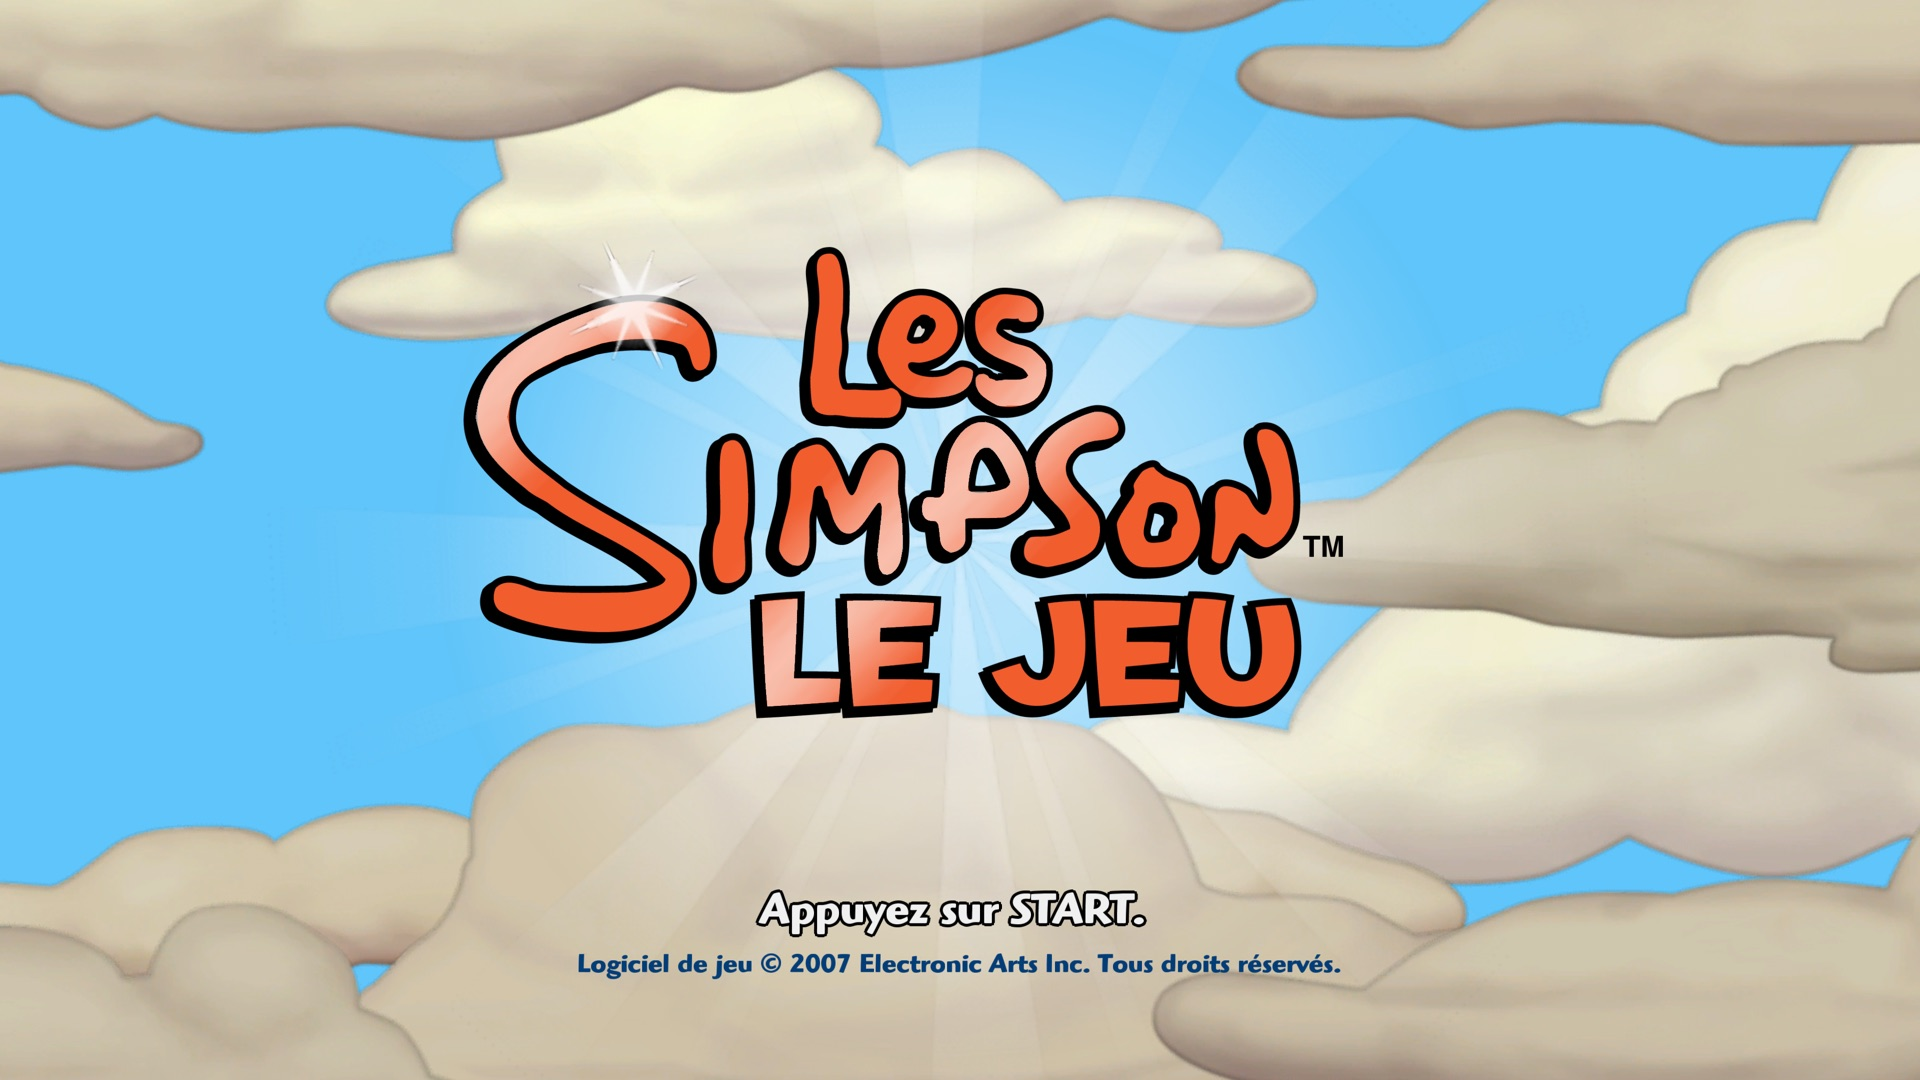
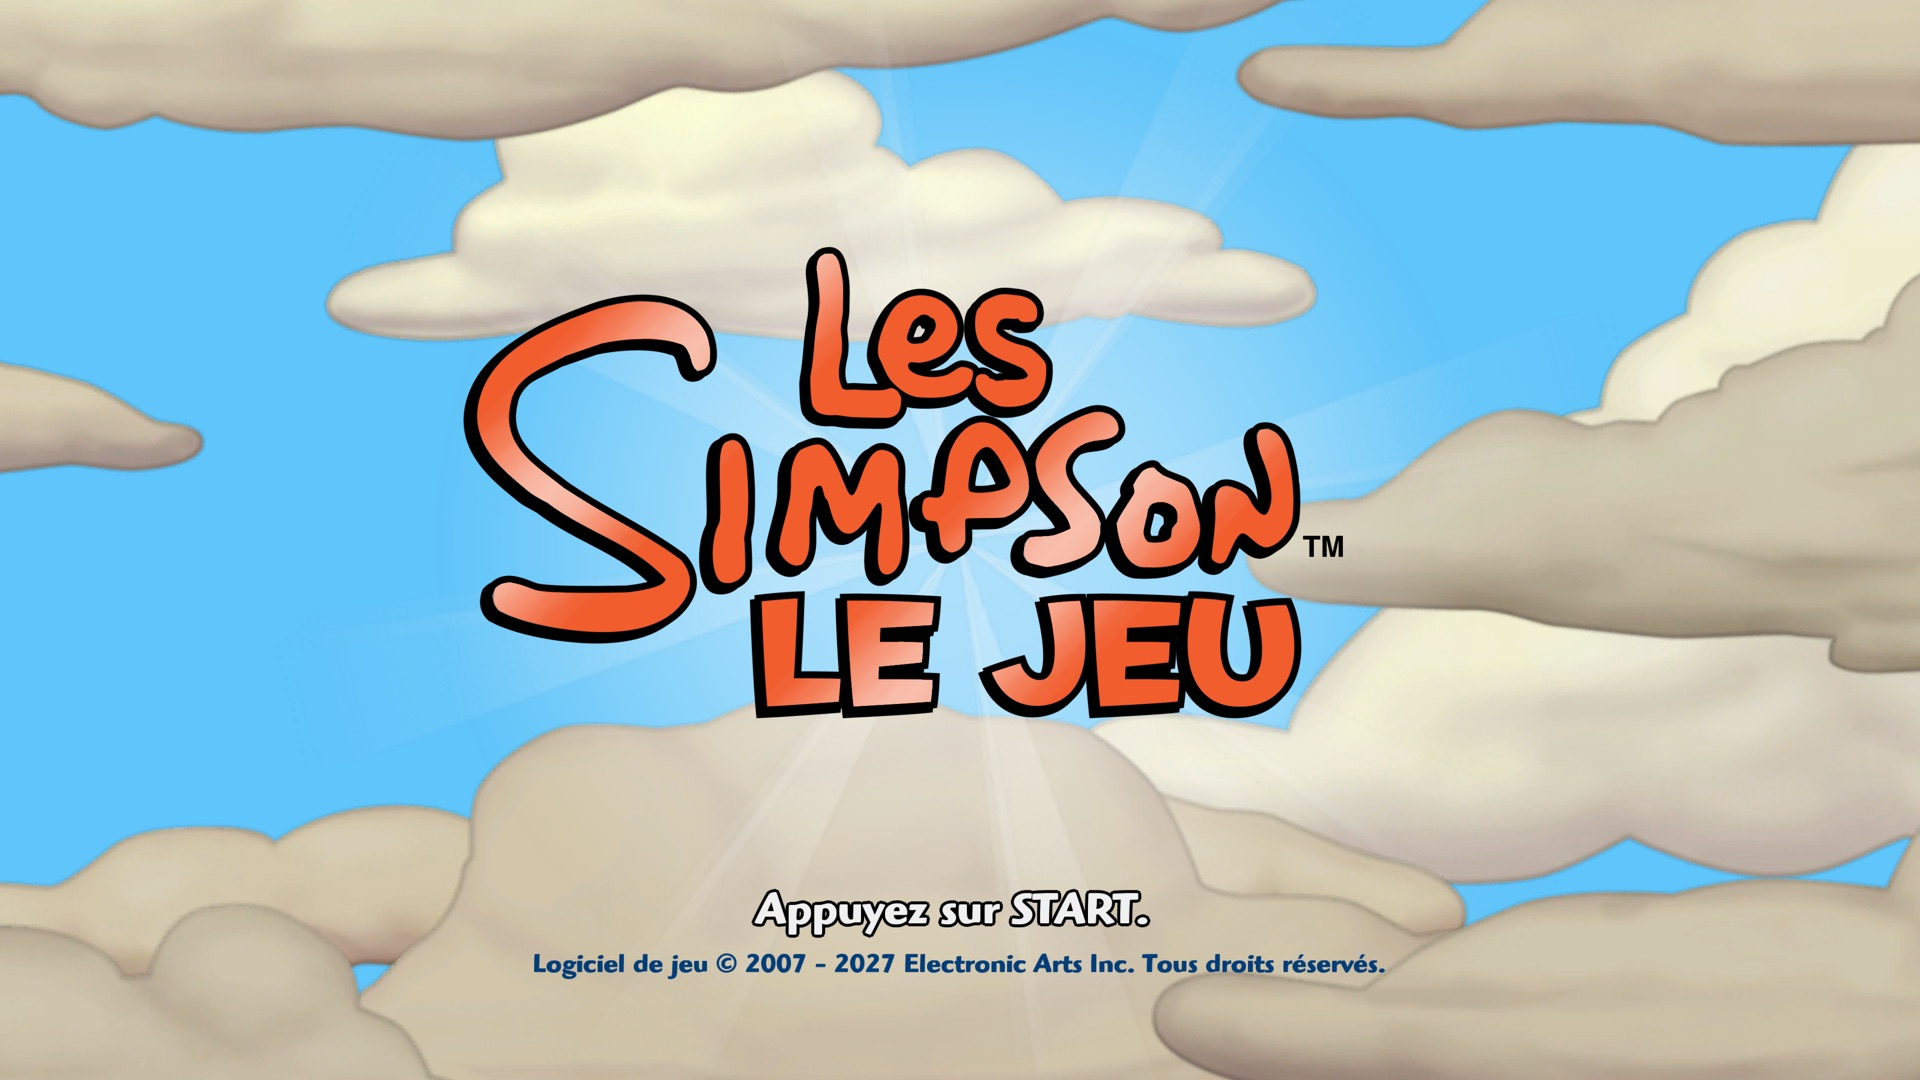
README : écran titre pris dans l'application, textes adaptés détaillés

diff --git a/README.md b/README.md
@@ -54,7 +54,9 @@ version française (PAL) ; le code est identique en NTSC-U et en PAL italien/esp
   bords crénelés. Le runtime leur fabrique des versions réduites (mipmaps) : logo du titre et police des textes
   nettement plus lisses. La liste est dans `simpsons/modifications/textures/*.mips`.
 - **Logo « EA | 5K ULTRA HD »** à la place de « EA | HD » sur l'écran de démarrage (`tools/logo_4k.py`).
-- **Textes adaptés** : « Ne pas éteindre la console Xbox 360 » devient « Ne pas quitter le jeu »
+- **Textes adaptés à l'ordinateur** : les mentions de la console Xbox 360 et du Xbox LIVE disparaissent (« Ne pas
+  éteindre la console Xbox 360 » devient « Ne pas quitter le jeu », « sur votre console Xbox 360 » devient « sur
+  votre ordinateur »…), et l'écran de démarrage annonce « 5K ULTRA HD » au lieu de « COMPATIBLE HD »
   (`simpsons/modifications/textes_fr.tsv`, appliqué par `tools/modifier_textes.py`).
 - **60 images/s** au lieu de 30, et résolution interne jusqu'en 5K.
 
